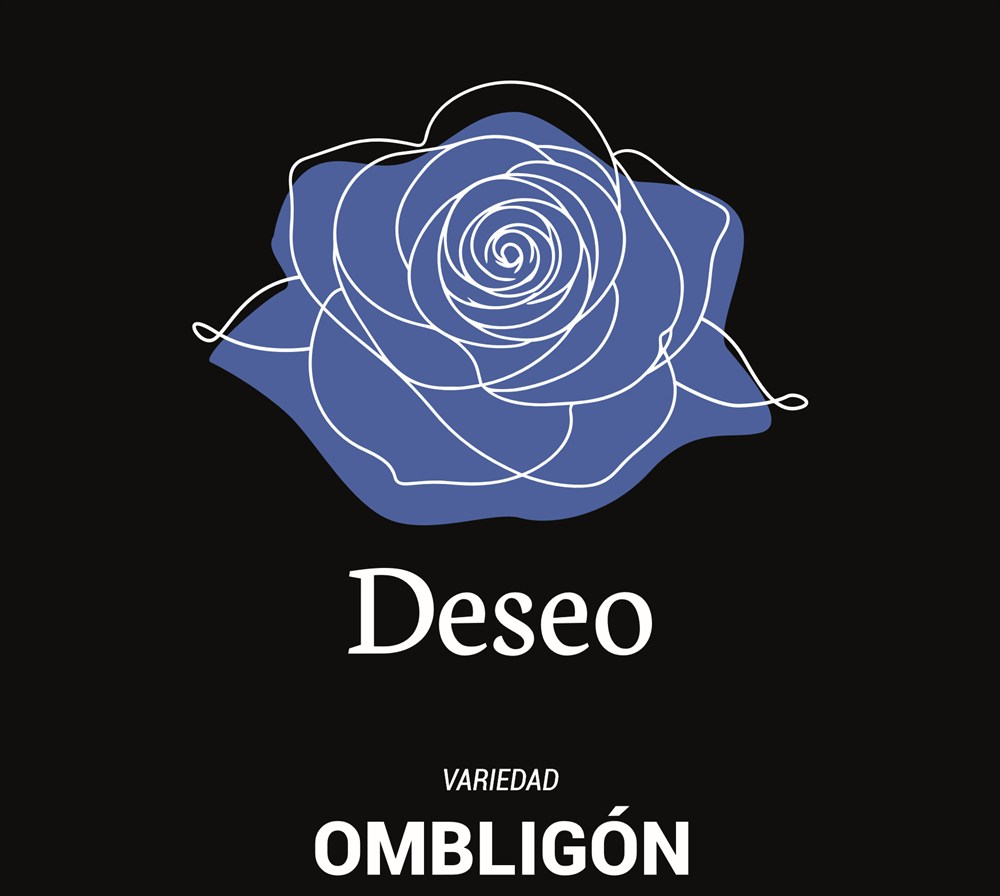
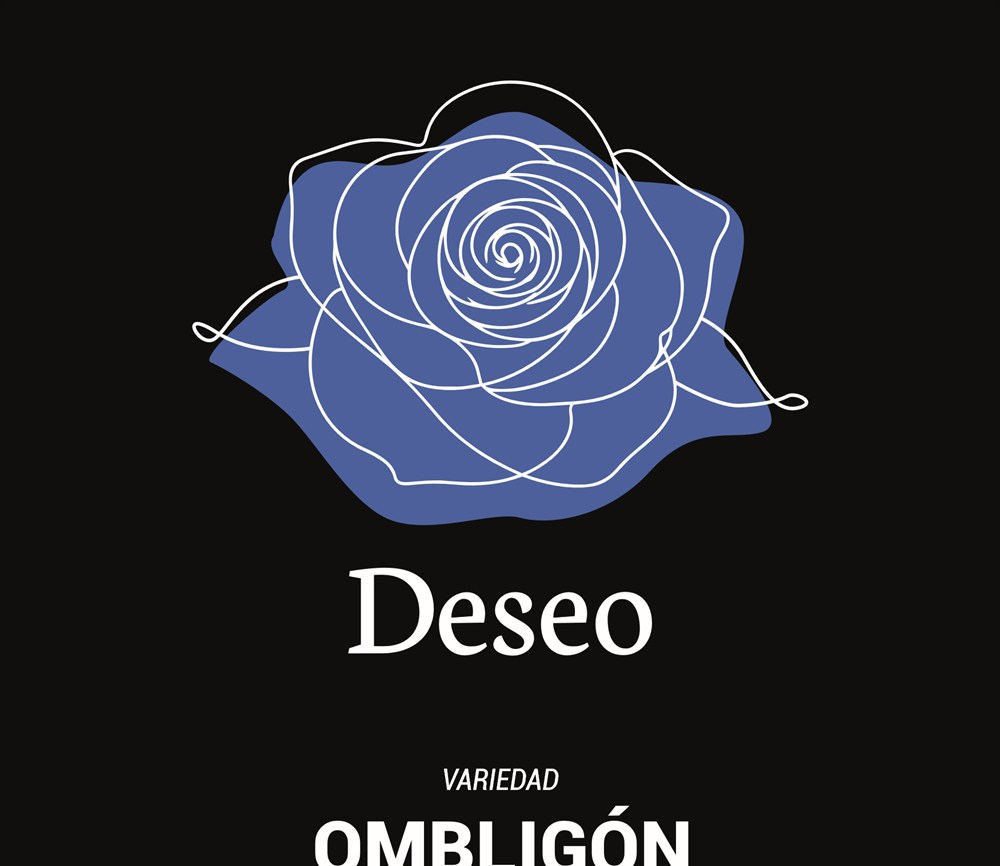
Quita la línea blanca bajo la ficha de Ilusión
El recorte de las fichas estaba en 0.478 del alto de página, pero medí dónde
empieza la caja de datos en cada una y en Ilusión arranca antes que en las
demás, así que su borde superior asomaba al pie de la imagen:

  Pasión 0.4803 · Ilusión 0.4742 · Deseo 0.4791 · Euforia 0.4916 · Ombligón 0.4874

Ahora las cinco se recortan en 0.462, por debajo de la más alta y con margen.
Las imágenes pasan de 1000x896 a 1000x866, y con ellas la proporción de las
tarjetas en CSS y los atributos width/height, para que no haya salto de
maquetación al cargar.

Verificado: en las últimas 14 filas de las cinco fichas no queda ninguna
racha clara mayor al 4% del ancho.

Changed region(s): [[0.186, 0.0624, 0.806, 0.7794], [0.31, 0.8418, 0.713, 1.0]]

diff --git a/assets/css/style.css b/assets/css/style.css
@@ -357,7 +357,7 @@ section { padding: clamp(3.5rem, 8vw, 7rem) var(--gut); }
 .coffee.oculto { display: none; }
 
 /* Proporción de las fichas de cata (assets/products/*.jpg) */
-.coffee-media { position: relative; aspect-ratio: 1000 / 896; overflow: hidden; background: #060606; }
+.coffee-media { position: relative; aspect-ratio: 1000 / 866; overflow: hidden; background: #060606; }
 .coffee-media img { width: 100%; height: 100%; object-fit: cover; transition: transform 0.6s var(--ease); }
 .coffee:hover .coffee-media img { transform: scale(1.04); }
 .coffee-badges { position: absolute; top: 12px; right: 12px; display: flex; flex-direction: column; gap: 6px; align-items: flex-end; }
@@ -513,7 +513,7 @@ section { padding: clamp(3.5rem, 8vw, 7rem) var(--gut); }
 .shop-grid { display: grid; grid-template-columns: repeat(auto-fit, minmax(270px, 1fr)); gap: 1.3rem; margin-top: 2.8rem; }
 .shop-card { border: 1px solid var(--border-soft); background: var(--black); display: flex; flex-direction: column; transition: border-color 0.3s var(--ease); }
 .shop-card:hover { border-color: rgba(255,255,255,0.22); }
-.shop-media { position: relative; aspect-ratio: 1000 / 896; overflow: hidden; background: #060606; }
+.shop-media { position: relative; aspect-ratio: 1000 / 866; overflow: hidden; background: #060606; }
 .shop-media img { width: 100%; height: 100%; object-fit: cover; }
 .shop-info { padding: 1.4rem; display: flex; flex-direction: column; flex: 1; }
 .shop-coll { font-family: var(--label); font-size: 10px; letter-spacing: 0.22em; text-transform: uppercase; color: var(--c); }

diff --git a/assets/js/app.js b/assets/js/app.js
@@ -109,7 +109,7 @@
         <div class="coffee-media">
           <img src="${esc(L.imagen)}"
                alt="Ficha de cata de ${esc(c.nombre)}${puesto(L.variedad) ? ', variedad ' + esc(L.variedad) : ''}"
-               width="1000" height="896" loading="lazy" decoding="async">
+               width="1000" height="866" loading="lazy" decoding="async">
           <span class="coffee-dot" aria-hidden="true"></span>
           <div class="coffee-badges">${badges}</div>
         </div>
@@ -276,7 +276,7 @@
       <article class="shop-card" style="--c:${esc(c.color)}">
         <div class="shop-media">
           <img src="${esc(L.imagen)}" alt="Bolsa de café ${esc(c.nombre)} ${esc(L.variedad)}"
-               width="1000" height="896" loading="lazy" decoding="async">
+               width="1000" height="866" loading="lazy" decoding="async">
         </div>
         <div class="shop-info">
           <div class="shop-coll">${esc(c.nombre)}</div>
